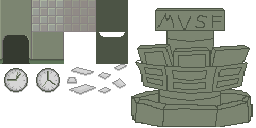
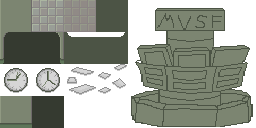
Upper Layer Rendering
Added a new Environment Subclass (and corresponding global object) that
is rendered after all other entities, to act as an "upper layer" that
holds aspects of the environment that should be rendered above the
player.

Changed region(s): [[0.0, 0.25, 0.4062, 0.5], [0.0, 0.75, 0.25, 1.0], [0.0, 0.3125, 0.0312, 0.5]]

diff --git a/Sustainable Economy/Sustainable Economy/Environment.cpp b/Sustainable Economy/Sustainable Economy/Environment.cpp
@@ -30,17 +30,25 @@ Environment::Environment(int x, int y) : Entity(x, y)
 	rect_floorBrown = sprites[1][0];
 	rect_floor = sprites[2][0];
 	rect_wallTop = sprites[3][0];
-	rect_wallTopOpen = sprites[3][1];
-	rect_wallDoor = sprites[0][1];
-	rect_wallBottom = sprites[1][1];
+	rect_wallDoor_Left = sprites[0][1];
+	rect_wallDoor_Right = sprites[1][1];
+	rect_wallTopOpen_Left = sprites[2][1];
+	rect_wallTopOpen_Right = sprites[3][1];
+	rect_wallDoorShadow = sprites[1][3];
+	rect_wallBottom = sprites[0][3];
 	rect_clock1 = sprites[0][2];
 	rect_clock2 = sprites[1][2];
 	rect_paper1 = sprites[2][2];
 	rect_paper2 = sprites[3][2];
+
+	BuildWalls();
+}
 	
+void Environment::BuildWalls(void)
+{
 	//Build the walls
 	// Left and Right Walls (Bottom)
-	for (int _y = TILE_SIZE; _y < (screen->h - TILE_SIZE); _y += TILE_SIZE) // Loop through height
+	for (int _y = 0; _y < (screen->h - TILE_SIZE); _y += TILE_SIZE) // Loop through height
 	{
 		// Initialise Left and Right
         Wall* leftWall = new Wall(0, _y, sprite_sheet, rect_wallTop);
@@ -70,7 +78,7 @@ Environment::Environment(int x, int y) : Entity(x, y)
 	for (int _x = 0; _x < screen->w; _x += TILE_SIZE) // Loop through width
 	{
 		// Don't put walls in the doorways
-		if ((_x != TILE_SIZE*4) && (_x != TILE_SIZE*15))
+		if ((_x != TILE_SIZE*4) && (_x != TILE_SIZE*5) && (_x != TILE_SIZE*14) && (_x != TILE_SIZE*15))
 		{
 			// Initialise Top and Bottom
 			Wall* topWallTop = new Wall(_x, yVal, sprite_sheet, rect_wallTop);
@@ -102,18 +110,16 @@ Environment::Environment(int x, int y) : Entity(x, y)
 		g_game->addCollidable(topWall0, true);
 		g_game->addCollidable(topWall1, true);
 		
-		if ((_x != TILE_SIZE*4) && (_x != TILE_SIZE*15))
+		/*if ((_x != TILE_SIZE*4) && (_x != TILE_SIZE*5) && (_x != TILE_SIZE*14) && (_x != TILE_SIZE*15))
 		{
-			Wall* bottomWall = new Wall(_x, yVal + screen->h - TILE_SIZE, sprite_sheet, rect_wallTop);
+			Wall* bottomWall = new Wall(_x, yVal + screen->h - TILE_SIZE, sprite_sheet, rect_wall);
 			g_game->addCollidable(bottomWall, true);
-		}
+		}*/
 	}
 
 	// Top Room's item stations
 	BuildStationWalls(TILE_SIZE * 4, TILE_SIZE * 5 - screen->h);
 	BuildStationWalls(TILE_SIZE * 12, TILE_SIZE * 5 - screen->h);
-	/*BuildStation(TILE_SIZE * 4, TILE_SIZE * 5);
-	BuildStation(TILE_SIZE * 12, TILE_SIZE * 5);*/
 
 	// Left and Right Walls
 	for (int _y = (TILE_SIZE*4); _y < (screen->h - TILE_SIZE); _y += TILE_SIZE) // Loop through height
@@ -137,8 +143,11 @@ Environment::~Environment()
     delete rect_floor;
     delete rect_wall;
     delete rect_wallBottom;
-	delete rect_wallDoor;
+	delete rect_wallDoor_Left;
+	delete rect_wallDoor_Right;
     delete rect_wallTop;
+    delete rect_wallTopOpen_Left;
+    delete rect_wallTopOpen_Right;
 	delete rect_floorBrown;
 	delete rect_clock1;
 	delete rect_clock2;
@@ -150,11 +159,9 @@ void Environment::BuildStationWalls(const int _x, const int _y)
 {
 	for (int i = 0; i < 4; i++)
 	{
-		for (int j = 1; j < 3; j++)
-		{
-			Wall* bottomWall = new Wall(i*TILE_SIZE + _x, j*TILE_SIZE + _y, sprite_sheet, sprites[i+4][j]);
-			g_game->addCollidable(bottomWall, true);
-		}
+		int j = 2;
+		Wall* bottomWall = new Wall(i*TILE_SIZE + _x, j*TILE_SIZE + _y, sprite_sheet, sprites[i+4][j]);
+		g_game->addCollidable(bottomWall, true);
 	}
 }
 
@@ -162,15 +169,12 @@ void Environment::BuildStationRest(const int _x, const int _y)
 {
 	for (int i = 0; i < 4; i++)
 	{
-		int j = 0;
-		apply_surface(i*TILE_SIZE + _x, j*TILE_SIZE + _y, sprite_sheet, screen, sprites[i+4][j]);
-		j = 3;
-		apply_surface(i*TILE_SIZE + _x, j*TILE_SIZE + _y, sprite_sheet, screen, sprites[i+4][j]);
+		apply_surface(i*TILE_SIZE + _x, 3*TILE_SIZE + _y, sprite_sheet, screen, sprites[i+4][3]);
 	}
 }
 
 
-void Environment::render()
+void Environment::render(void) 
 {
 	//Build the floor
 	for (int i = 0; i < screen->w; i += TILE_SIZE)
@@ -286,33 +290,28 @@ void Environment::render()
 	// Station Sections that the player can walk through
 	BuildStationRest(TILE_SIZE * 4, roomOffset + TILE_SIZE * 5);
 	BuildStationRest(TILE_SIZE * 12, roomOffset + TILE_SIZE * 5);
+
 	// Walls that aren't walls
 	for (int _x = 0; _x < screen->w; _x += TILE_SIZE) // Loop through width
 	{
-		// Sometimes the bottom of a wall, sometimes a door
-		if ((_x != TILE_SIZE*4) && (_x != TILE_SIZE*15))
-			apply_surface(_x, 3*TILE_SIZE, sprite_sheet, screen, rect_wallBottom); // Bottom Wall
-		else
-		{
-			apply_surface(_x, -1*TILE_SIZE, sprite_sheet, screen, rect_wallTopOpen); // Top Screen's WallTop
-			apply_surface(_x, 0*TILE_SIZE, sprite_sheet, screen, rect_wallTop); // Top WallTop
-			apply_surface(_x, 1*TILE_SIZE, sprite_sheet, screen, rect_wall); // Top Wall
-			apply_surface(_x, 2*TILE_SIZE, sprite_sheet, screen, rect_wall); // Mid Wall
-			apply_surface(_x, 3*TILE_SIZE, sprite_sheet, screen, rect_wallDoor); // Door
-		}
+		// Sometimes the bottom of a wall, sometimes a door. Door is on upper layers, so leave room.
+		if ((_x != TILE_SIZE*4) && (_x != TILE_SIZE*5) && (_x != TILE_SIZE*14) && (_x != TILE_SIZE*15))
+			apply_surface(_x, 3*TILE_SIZE, sprite_sheet, screen, rect_wallBottom); // Bottom Wall, Bottom Room
+		
+		// Bottom Wall, Top room
+		apply_surface(_x, 3*TILE_SIZE - screen->h, sprite_sheet, screen, rect_wallBottom); 
 
-		// Bottom overhang
-		apply_surface(_x, (screen->h - 2*TILE_SIZE), sprite_sheet, screen, rect_wallTop);
+		// Left side of door
+		if ((_x == TILE_SIZE*4) || (_x == TILE_SIZE*14)) {
+			apply_surface(_x, 3*TILE_SIZE, sprite_sheet, screen, rect_wallDoor_Left); // Door
+		}
+		// Right side of door
+		if ((_x == TILE_SIZE*5) || (_x == TILE_SIZE*15)) {
+			apply_surface(_x, 3*TILE_SIZE, sprite_sheet, screen, rect_wallDoor_Right); // Door
+		}
 	}
 
-	for (int _x = 0; _x < screen->w; _x += TILE_SIZE) // Loop through width
-		apply_surface(_x, 3*TILE_SIZE - screen->h, sprite_sheet, screen, rect_wallBottom); // Bottom Wall
-
-		// Bottom Room
-	// Clocks
-	apply_surface(TILE_SIZE*4, 1.5*TILE_SIZE, sprite_sheet, screen, rect_clock1); // Clock above left doorway
-	apply_surface(TILE_SIZE*15, 1.5*TILE_SIZE, sprite_sheet, screen, rect_clock2); // Clock above left doorway
-	
+		// Bottom Room	
 	// Papers
 	apply_surface(TILE_SIZE * 3, TILE_SIZE * 12, sprite_sheet, screen, rect_paper1);
 	apply_surface(TILE_SIZE * 4, TILE_SIZE * 6, sprite_sheet, screen, rect_paper2);
@@ -321,11 +320,7 @@ void Environment::render()
 	apply_surface(TILE_SIZE * 12, TILE_SIZE * 5, sprite_sheet, screen, rect_paper1);
 	apply_surface(TILE_SIZE * 18, TILE_SIZE * 7, sprite_sheet, screen, rect_paper2);
 
-		// Top Room
-	// Clocks
-	apply_surface(TILE_SIZE*4, roomOffset + 1.5*TILE_SIZE, sprite_sheet, screen, rect_clock1); // Clock above left doorway
-	apply_surface(TILE_SIZE*15, roomOffset + 1.5*TILE_SIZE, sprite_sheet, screen, rect_clock2); // Clock above left doorway
-	
+		// Top Room	
 	// Papers
 	apply_surface(TILE_SIZE * 3, roomOffset + TILE_SIZE * 12, sprite_sheet, screen, rect_paper1);
 	apply_surface(TILE_SIZE * 4, roomOffset + TILE_SIZE * 6, sprite_sheet, screen, rect_paper2);

diff --git a/Sustainable Economy/Sustainable Economy/EnvironmentUpper.cpp b/Sustainable Economy/Sustainable Economy/EnvironmentUpper.cpp
@@ -1,0 +1,67 @@
+#include "EnvironmentUpper.h"
+#include "Game.h"
+
+EnvironmentUpper* g_environmentUpper = nullptr;
+
+void EnvironmentUpper::render()
+{
+	int roomOffset = -screen->h;
+
+	for (int _x = 0; _x < screen->w; _x += TILE_SIZE) // Loop through width
+	{
+		// The door passage columns
+		if ((_x == TILE_SIZE*4) || (_x == TILE_SIZE*5) || (_x == TILE_SIZE*14) || (_x == TILE_SIZE*15))
+		{
+			apply_surface(_x, 0*TILE_SIZE, sprite_sheet, screen, rect_wallTop); // Top WallTop
+			apply_surface(_x, 1*TILE_SIZE, sprite_sheet, screen, rect_wall); // Top Wall
+			apply_surface(_x, 2*TILE_SIZE, sprite_sheet, screen, rect_wall); // Mid Wall
+
+			//apply_surface(_x, -1*TILE_SIZE, sprite_sheet, screen, rect_wall); // Top Screen's WallTop
+		}
+		else
+		{
+			apply_surface(_x, -1*TILE_SIZE, sprite_sheet, screen, rect_wallTop); // Top Screen's WallTop
+		}
+
+		// Bottom overhang
+		apply_surface(_x, (screen->h - 2*TILE_SIZE), sprite_sheet, screen, rect_wallTop);
+
+		// Left side of door
+		if ((_x == TILE_SIZE*4) || (_x == TILE_SIZE*14)) {
+			apply_surface(_x, -1*TILE_SIZE, sprite_sheet, screen, rect_wallTopOpen_Left); // Top Screen's WallTop
+		}
+		// Right side of door
+		if ((_x == TILE_SIZE*5) || (_x == TILE_SIZE*15)) {
+			apply_surface(_x, -1*TILE_SIZE, sprite_sheet, screen, rect_wallTopOpen_Right); // Top Screen's WallTop
+		}
+	}
+
+	/*if ((_x != TILE_SIZE*4) && (_x != TILE_SIZE*5) && (_x != TILE_SIZE*14) && (_x != TILE_SIZE*15))
+	{
+		Wall* bottomWall = new Wall(_x, yVal + screen->h - 2*TILE_SIZE, sprite_sheet, rect_wall);
+		g_game->addCollidable(bottomWall, true);
+	}*/
+
+		// Bottom Room
+	// Clocks
+	apply_surface(TILE_SIZE*4.5, 1.5*TILE_SIZE, sprite_sheet, screen, rect_clock1); // Clock above left doorway
+	apply_surface(TILE_SIZE*14.5, 1.5*TILE_SIZE, sprite_sheet, screen, rect_clock2); // Clock above left doorway
+
+		// Top Room
+	// Clocks
+	apply_surface(TILE_SIZE*4.5, roomOffset + 1.5*TILE_SIZE, sprite_sheet, screen, rect_clock1); // Clock above left doorway
+	apply_surface(TILE_SIZE*14.5, roomOffset + 1.5*TILE_SIZE, sprite_sheet, screen, rect_clock2); // Clock above left doorway
+
+	// The tops of each station
+	BuildStationRest(TILE_SIZE * 4, roomOffset + TILE_SIZE * 5);
+	BuildStationRest(TILE_SIZE * 12, roomOffset + TILE_SIZE * 5);
+}
+
+void EnvironmentUpper::BuildStationRest(const int _x, const int _y)
+{
+	for (int i = 0; i < 4; i++)
+	{
+		apply_surface(i*TILE_SIZE + _x, _y, sprite_sheet, screen, sprites[i+4][0]);
+		apply_surface(i*TILE_SIZE + _x, _y+TILE_SIZE, sprite_sheet, screen, sprites[i+4][1]);
+	}
+}

diff --git a/Sustainable Economy/Sustainable Economy/Environment.h b/Sustainable Economy/Sustainable Economy/Environment.h
@@ -8,35 +8,36 @@
 class Environment :
 	public Entity
 {
+	void set_skin(void) override { skin = nullptr; };
 public:
 	Environment(int x, int y);
 	~Environment(void);
 
-	void update(int delta) {}
-	void render();
+	void update(int delta) override final {}
+	virtual void render(void) override;
 
-private:
+protected:
 	SDL_Rect* sprites[SHEET_WIDTH][SHEET_HEIGHT]; //All of the clip positions
 	// Sprite identifiers for certain objects' clips.
 	SDL_Rect* rect_floor;
 	SDL_Rect* rect_floorBrown;
 	SDL_Rect* rect_wall;
 	SDL_Rect* rect_wallBottom;
-	SDL_Rect* rect_wallDoor;
+	SDL_Rect* rect_wallDoorShadow;
+	SDL_Rect* rect_wallDoor_Left;
+	SDL_Rect* rect_wallDoor_Right;
 	SDL_Rect* rect_wallTop;
-	SDL_Rect* rect_wallTopOpen;
+	SDL_Rect* rect_wallTopOpen_Left;
+	SDL_Rect* rect_wallTopOpen_Right;
 	SDL_Rect* rect_clock1;
 	SDL_Rect* rect_clock2;
 	SDL_Rect* rect_paper1;
 	SDL_Rect* rect_paper2;
 
-	//SDL_Surface* entire_image; //The culmination of the total image made by the code in the constructor.
-
-	void set_skin() { skin = nullptr; };
-
 	// Build a station object starting at a given top left position
 	void BuildStationWalls(const int x, const int y);
-	void BuildStationRest(const int x, const int y);
+	virtual void BuildStationRest(const int x, const int y);
+	virtual void BuildWalls(void); // Different implementations for subclasses
 };
 
 extern Environment* g_environment;

diff --git a/Sustainable Economy/Sustainable Economy/Player.cpp b/Sustainable Economy/Sustainable Economy/Player.cpp
@@ -241,24 +241,13 @@ void Player::SmashUpdate(void)
 void Player::render()
 {
     // For debugging!
+    
     // Draw the AABB, then the player
     /*SDL_Surface *test = g_resources->GetTestImage();
     
-    switch (this->direction) {
-        case UP:
-            m_AABB->y = y + m_yVel;
-            break;
-        case LEFT:
-            m_AABB->x = x + m_xVel;
-            break;
-        default:
-            break;
-    }
-    
     SDL_Rect r = { 0, 0, m_AABB->w, m_AABB->h };
     SDL_Rect *rect = &r;
-    apply_surface(m_AABB->x, m_AABB->y, test, screen, rect);
-    printf("x diff: %f\n", x - m_AABB->x);*/
+    apply_surface(m_AABB->x, m_AABB->y, test, screen, rect);*/
     
     Entity::render();
 }

diff --git a/Sustainable Economy/Sustainable Economy/Game.h b/Sustainable Economy/Sustainable Economy/Game.h
@@ -1,12 +1,18 @@
 #ifndef game_h
 #define game_h
 
+#define TILE_SIZE 32
+#define FRAME_RATE 60
+
+#define CONSOLE_COOLDOWN 10
+#define TRANSITION_SPEED 10
+
 #include <list>
 #include "KeyCode.h"
 #include "Entity.h"
 #include "Player.h"
 #include "Coin.h"
-#include "Environment.h"
+#include "EnvironmentUpper.h"
 #include "Prompt.h"
 #include "Timer.h"
 #include "SEConsole.h"
@@ -14,12 +20,6 @@
 #include <memory>
 
 using namespace std;
-
-#define TILE_SIZE 32
-#define FRAME_RATE 60
-
-#define CONSOLE_COOLDOWN 10
-#define TRANSITION_SPEED 10
 
 class CollisionManager;
 class Machine;

diff --git a/Sustainable Economy/Sustainable Economy/Game.cpp b/Sustainable Economy/Sustainable Economy/Game.cpp
@@ -80,6 +80,7 @@ void Game::InitEnvironment(void)
 {
 	// Environment stuff has a few steps
 	g_environment = new Environment(0, 0);
+	g_environmentUpper = new EnvironmentUpper(0, 0);
 	environment = g_environment;
 	m_Entities.push_front(environment);
 
@@ -208,6 +209,10 @@ void Game::Render()
 	// Render all of the entities
 	for (Entity* e : m_Entities) { e->render(); }
     
+	// Render the upper environment layer
+	g_environmentUpper->render();
+
+	// Render the UI above everything
     g_UI->Render();
 
 	// Flip (update) the screen

diff --git a/Sustainable Economy/Sustainable Economy/EnvironmentUpper.h b/Sustainable Economy/Sustainable Economy/EnvironmentUpper.h
@@ -1,0 +1,15 @@
+#pragma once
+#include "environment.h"
+
+class EnvironmentUpper :
+	public Environment
+{
+public:
+	EnvironmentUpper(const int x, const int y) : Environment(x, y) {}
+	void render(void) override final;
+protected:
+	virtual void BuildWalls(void) override final {}; // Do nothing. No walls on upper layer
+	virtual void BuildStationRest(const int _x, const int _y) override final;
+};
+
+extern EnvironmentUpper* g_environmentUpper;

diff --git a/Sustainable Economy/Sustainable Economy/PowerupMagnetism.cpp b/Sustainable Economy/Sustainable Economy/PowerupMagnetism.cpp
@@ -38,7 +38,6 @@ void PowerupMagnetism::InitSheet(void)
         SDL_Rect* clip = new SDL_Rect();
         
         clip->x = TILE_SIZE * i;
-        clip->y = 4 * TILE_SIZE;
         clip->w = clip->h = TILE_SIZE;
         
         sprites[i] = clip;

diff --git a/Sustainable Economy/Sustainable Economy/toolkit.h b/Sustainable Economy/Sustainable Economy/toolkit.h
@@ -9,7 +9,7 @@
 
 #define SCREEN_WIDTH 640
 #define SCREEN_HEIGHT 480
-#define SCREEN_BPP 16
+#define SCREEN_BPP 32
 
 extern SDL_Surface* screen;
 extern SDL_Color textColor;
